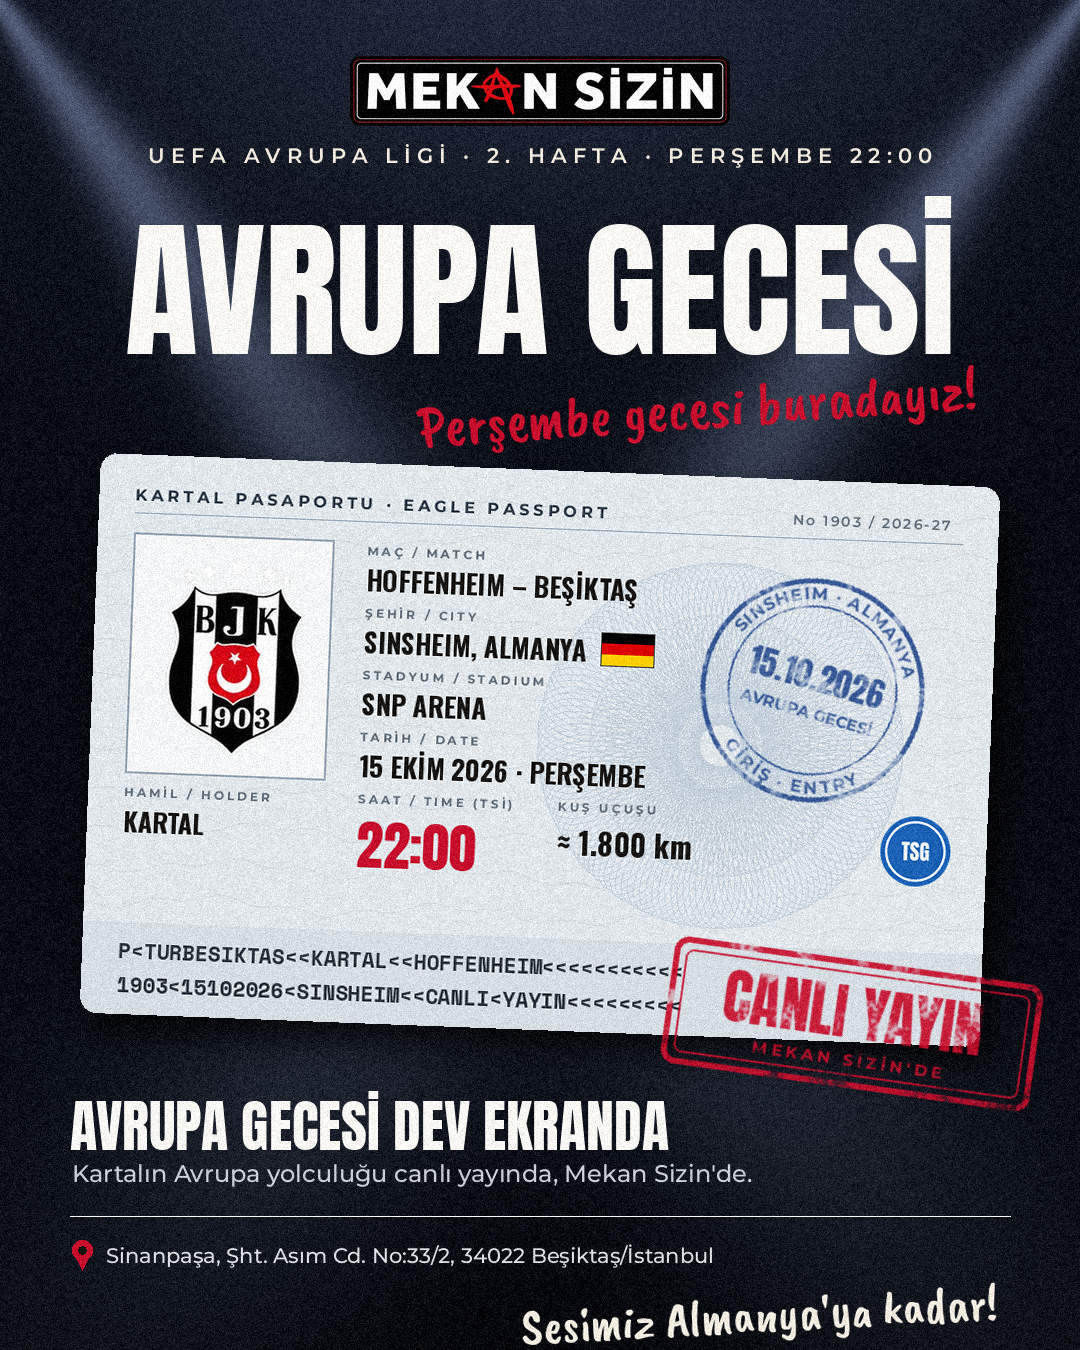
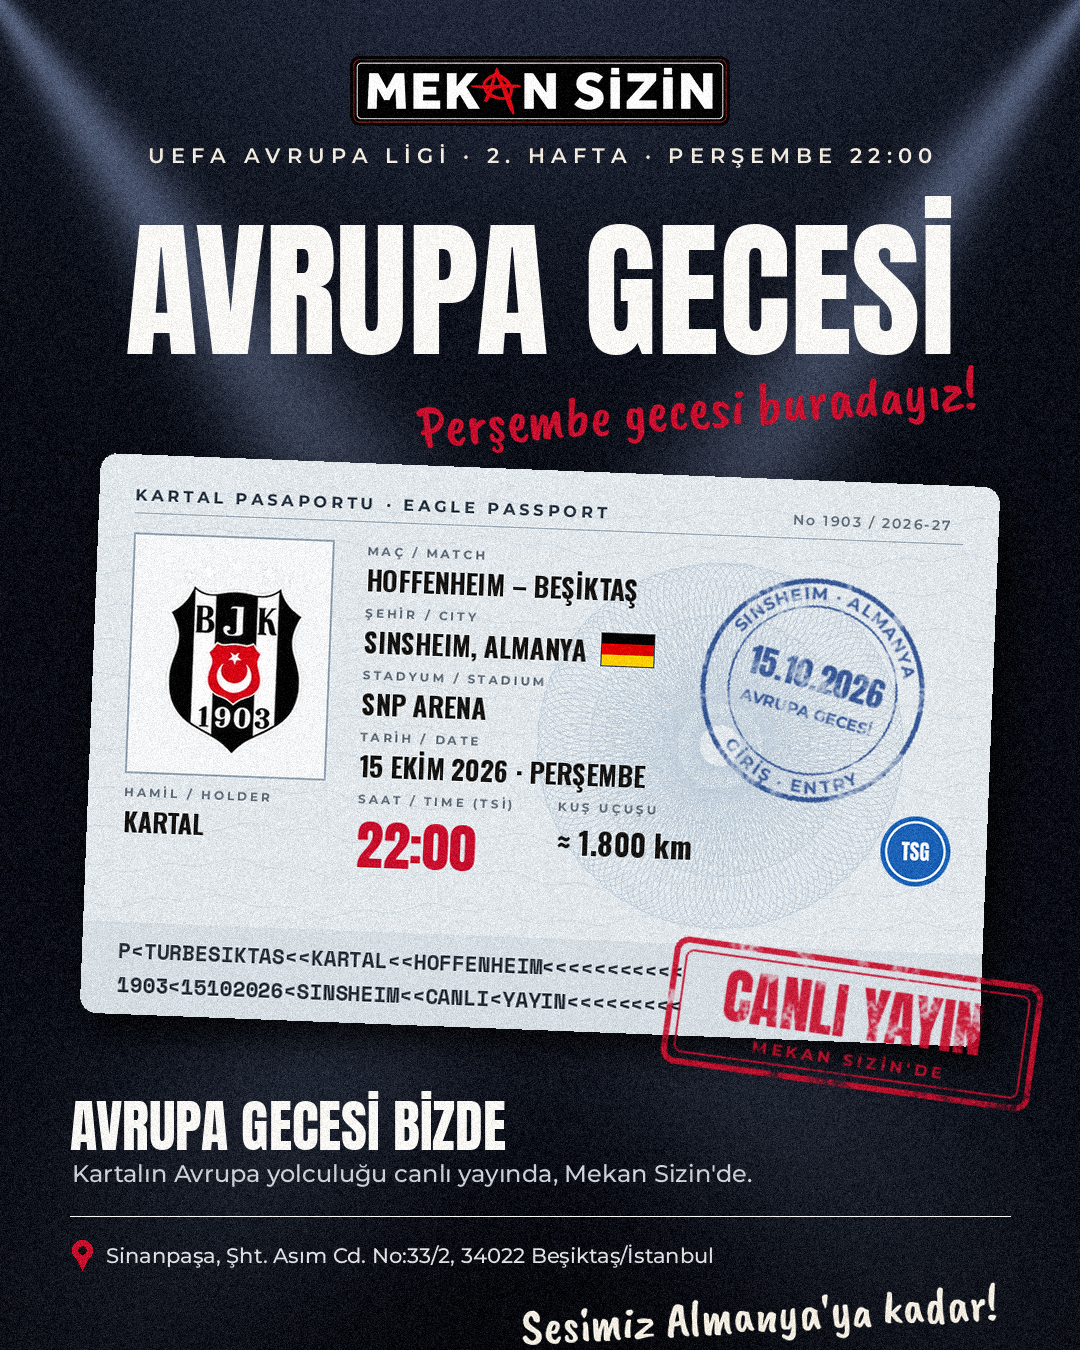
Drop the "dev ekran" wording from the Mekan Sizin feed
All feed posts and both stories now use wording such as "Tribün havası
Çarşı'da", "Yerin hazır" and "canlı yayında" instead of the big-screen
line; the campaign receipt row now reads "Meze · Her gün taze". The
template example configs, captions and alt texts are updated to match,
and the template examples are re-rendered.

Claude-Session: https://claude.ai/code/session_01XJxz6TxayURknP2UowWRAx

Changed region(s): [[0.3667, 0.8089, 0.6417, 0.8711]]

diff --git a/mekan-sizin/sablon/menu.py b/mekan-sizin/sablon/menu.py
@@ -82,7 +82,7 @@ def receipt(cfg):
             d.line((x, y, x + 8, y), fill=(120, 116, 110), width=2)
 
     dashes(150)
-    rows = k["fis_satirlari"]  # e.g. [["GÜN", "PZT – CUM"], ["MAÇ", "DEV EKRAN"]]
+    rows = k["fis_satirlari"]  # e.g. [["GÜN", "PZT – CUM"], ["MEZE", "HER GÜN TAZE"]]
     y = 188
     for left, right in rows:
         leader_row(d, 40, rw - 40, y, left, right, mono, mono, color=ink, price_color=ink, dot_color=(160, 156, 150))
